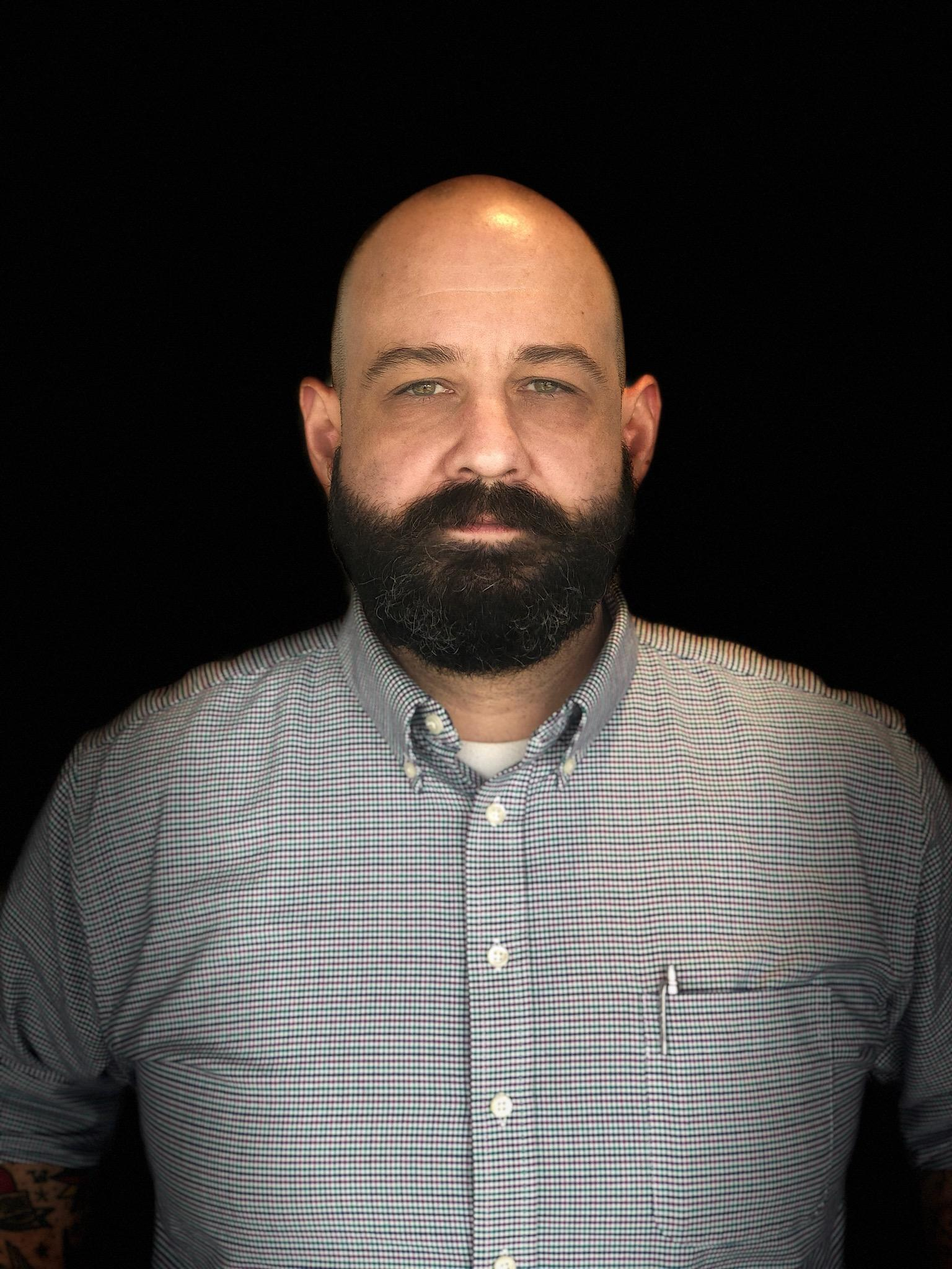
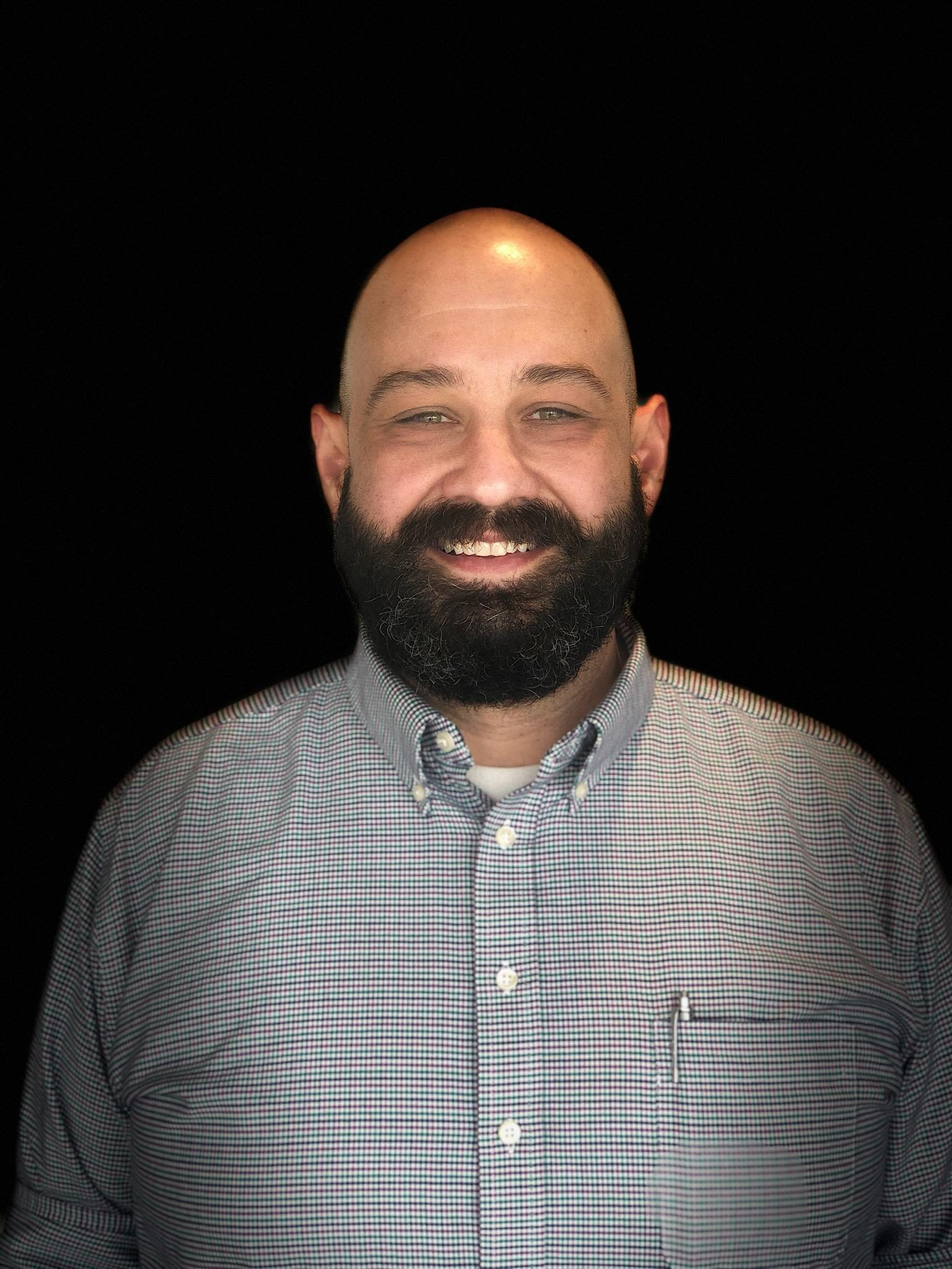
Changes picture of me.  Also updates the work section and about section

diff --git a/src/components/Main.js b/src/components/Main.js
@@ -17,7 +17,7 @@ class Main extends React.Component {
           <span className="image main"><img src={me} alt="" /></span>
           <p>Hi! I'm Ben Gray, welcome. I've been building software for the web for a decade and some change.</p>
           <p>I LOVE working within teams of cross-functional, passionate people.
-            I've been fortunate enough to have been on a variety of teams that have built everything from customized data collection and monitoring solutions for Georgia Power 
+            I've been fortunate enough to have been on a variety of teams that have built everything from customized data collection and monitoring solutions for Georgia Power
             to a full stack internal CMS for the writers and editors at CNN.  Through the years my passion remains the same: quickly producing quality software with teams of awesome people.</p>
           {close}
         </article>
@@ -26,7 +26,14 @@ class Main extends React.Component {
           <h2 className="major">Work</h2>
           <span className="image main"><img src={tool} alt="" /></span>
           <p>
-            I'm an experienced full stack JavaScript developer with 10+ years of professional experience. Primary expertise: JavaScript, ReactJS, Redux, Node.js, HTML, CSS, Docker, MongoDB, MySQL.
+            I'm an experienced full stack JavaScript developer with 10+ years of professional experience.
+          </p>
+          <p><span className="emphasis">Primary expertise</span>: JavaScript, ReactJS, Redux, Node.js, HTML, CSS, Docker, AWS, MongoDB.</p>
+          <p><span className="emphasis">Secondary expertise</span>: Angular, MySQL, PHP, Java, MS Exchange, Linux server administration.</p>
+
+          <h3>Cricket Wireless</h3>
+          <p>
+            Full Stack JavaScript engineer responsible for leading the CMS team through the full SDLC.  This CMS delivers content to the main Cricket Wireless consumer web portal as well a front-end for writer and editor use.  Responsible for developing, deploying and maintaining the entire stack, from AWS ECS & EC2 to writing front-end JavaScript modules complete with “Bring Your Own” styling in a UMD model.
           </p>
 
           <h3>CNN</h3>
@@ -51,7 +58,7 @@ Developed commercial web and e-commerce applications for multiple high-traffic w
 
           <h3>JMX Services</h3>
           <p>
-          Designed and implemented the online customer interface for transmission equipment condition assessment monitoring for Georgia Power. Utilized stored procedures, MSSQL database, HTML, Javascript, SSL certificates, AES encryption, SHA-2 hashing and CSS to achieve this goal. 
+          Designed and implemented the online customer interface for transmission equipment condition assessment monitoring for Georgia Power. Utilized stored procedures, MSSQL database, HTML, Javascript, SSL certificates, AES encryption, SHA-2 hashing and CSS to achieve this goal.
           </p>
           {close}
         </article>
@@ -59,6 +66,15 @@ Developed commercial web and e-commerce applications for multiple high-traffic w
         <article id="about" className={`${this.props.article === 'about' ? 'active' : ''} ${this.props.articleTimeout ? 'timeout' : ''}`} style={{display:'none'}}>
           <h2 className="major">About</h2>
           <span className="image main"><img src={stained_glass} alt="" /></span>
+          <p>
+            I have a few passions in life:
+            <ul>
+              <li>Family</li>
+              <li>Software</li>
+              <li>Nature</li>
+            </ul>
+            When I'm not behind a computer I'm likely on a trail somewhere, or fishing on a lake with my wife and kids.
+          </p>
           <p>
             Life is more than a resume.  Success is more than the balance in a bank account.  I strive to connect people through technologies, embracing the human element and wrangling the technical.
           </p>

diff --git a/src/assets/scss/layout/_main.scss b/src/assets/scss/layout/_main.scss
@@ -38,7 +38,9 @@
 			&.active {
 				display: block !important;
 			}
-
+			.emphasis {
+				text-decoration: underline;
+			}
 			.close {
 				display: block;
 				position: absolute;
